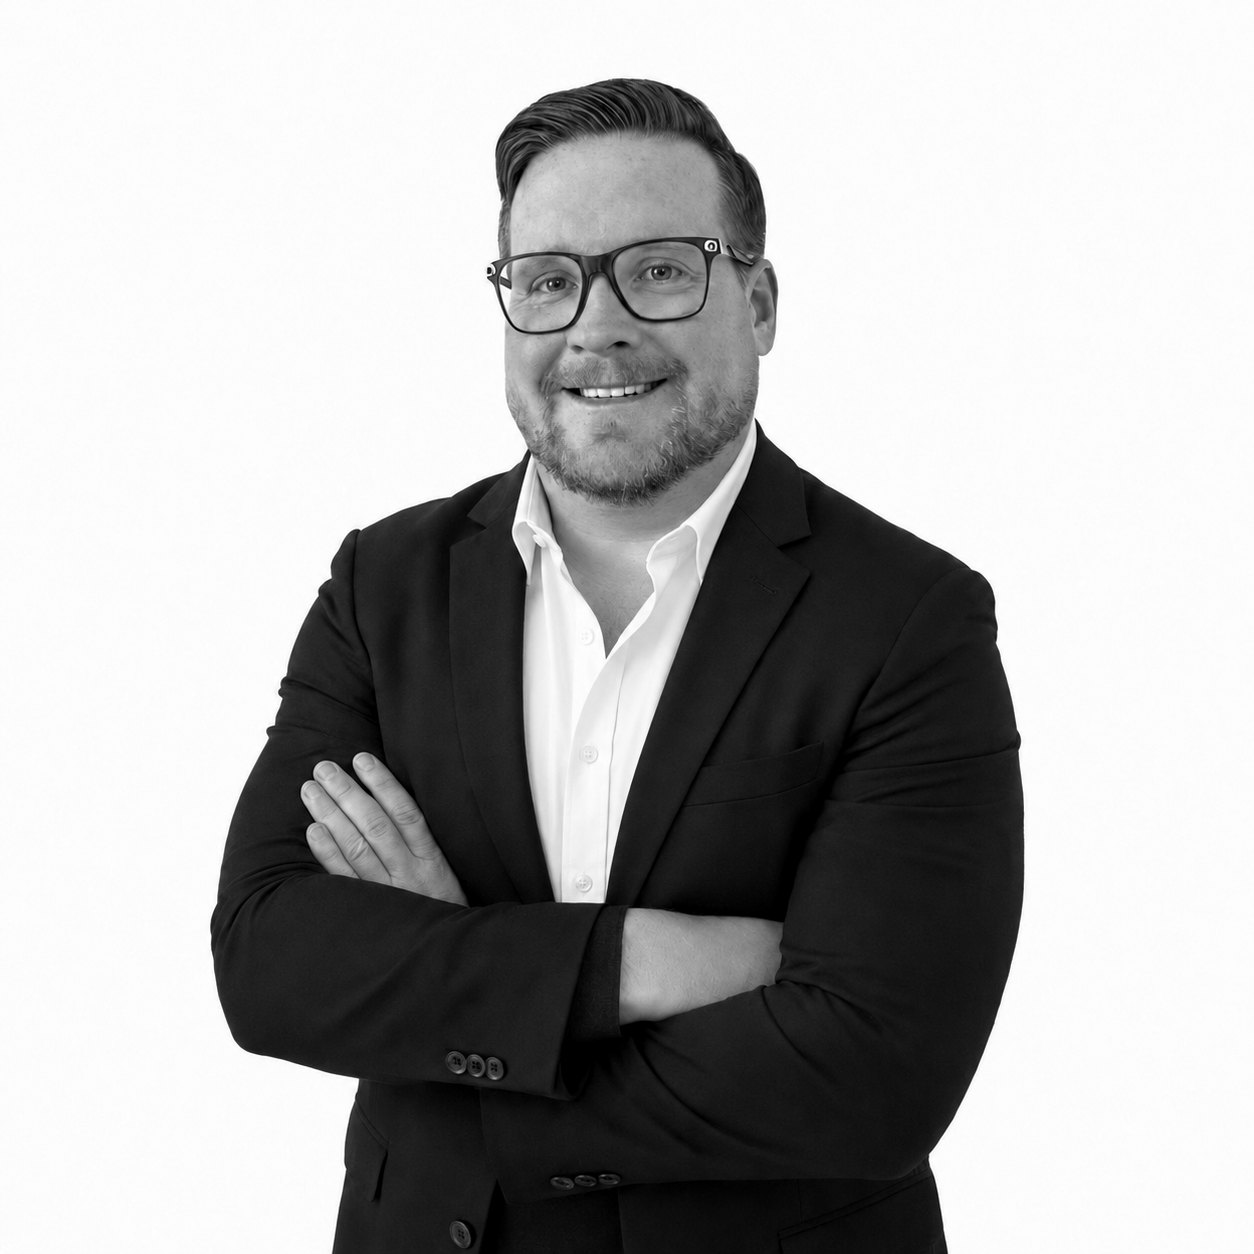
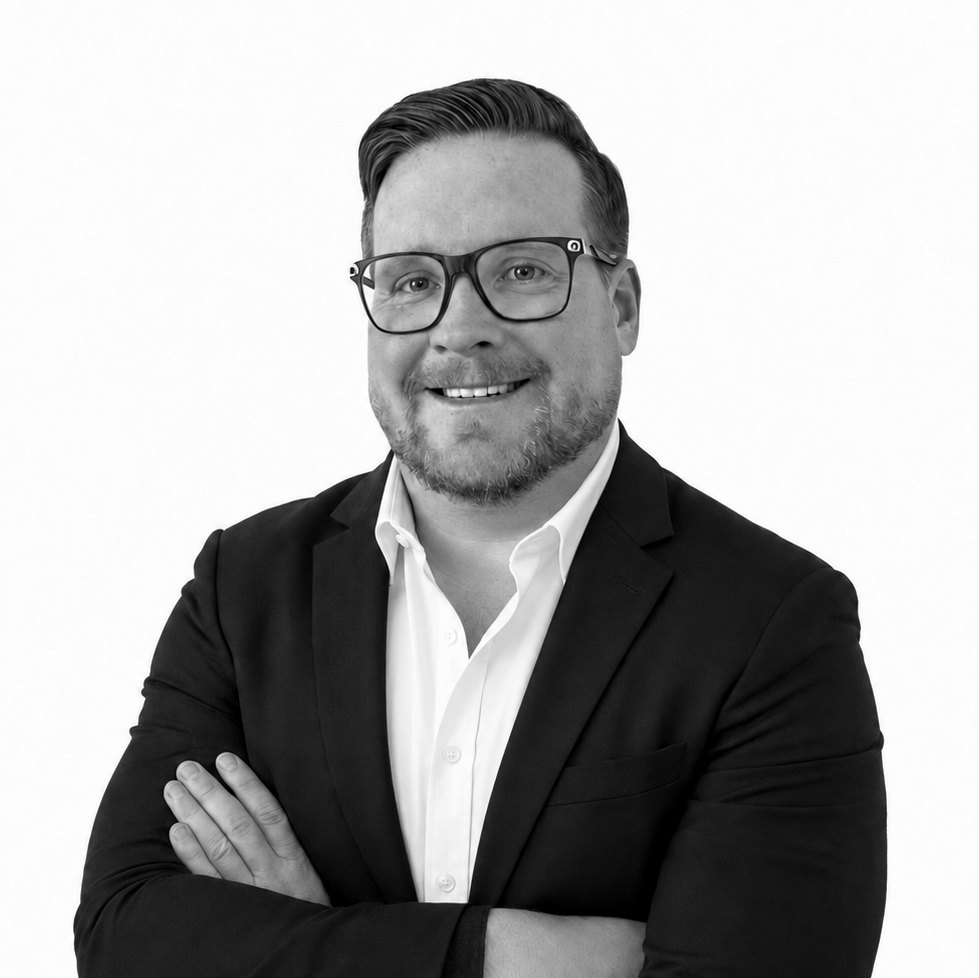
Add Brad Merriman as Partner, tighten Ryan's crop
Claude-Session: https://claude.ai/code/session_01FMW9LKPWUyxF1oS7yXrq46

diff --git a/src/components/Leadership.tsx b/src/components/Leadership.tsx
@@ -15,6 +15,12 @@ const team = [
     bio: 'Michael brings extensive experience in global attractions operations, safety management systems and training architecture, underpinning ProFun\'s accreditation standards worldwide.',
   },
   {
+    name: 'Brad Merriman',
+    photo: './team-brad-merriman-bw.jpg',
+    role: 'Partner',
+    bio: 'Brad brings deep experience in global attractions operations and advisory, shaping ProFun\'s training architecture, safety standards and senior leadership program design across its international portfolio.',
+  },
+  {
     name: 'Ryan Phillips',
     photo: './team-ryan-phillips-bw.jpg',
     role: 'General Manager',
@@ -49,12 +55,6 @@ const team = [
     photo: '',
     role: 'Director, Operations',
     bio: 'Peter directs operations at ProFun, with previous roles as General Manager at Qiddiya Investment Company and at Universal Studios Florida and the Walt Disney Company. Projects include Qiddiya, Doha QUEST and The RIG.',
-  },
-  {
-    name: 'Brad',
-    photo: '',
-    role: 'Role to be confirmed',
-    bio: '',
   },
   {
     name: 'Samir Bubic',
